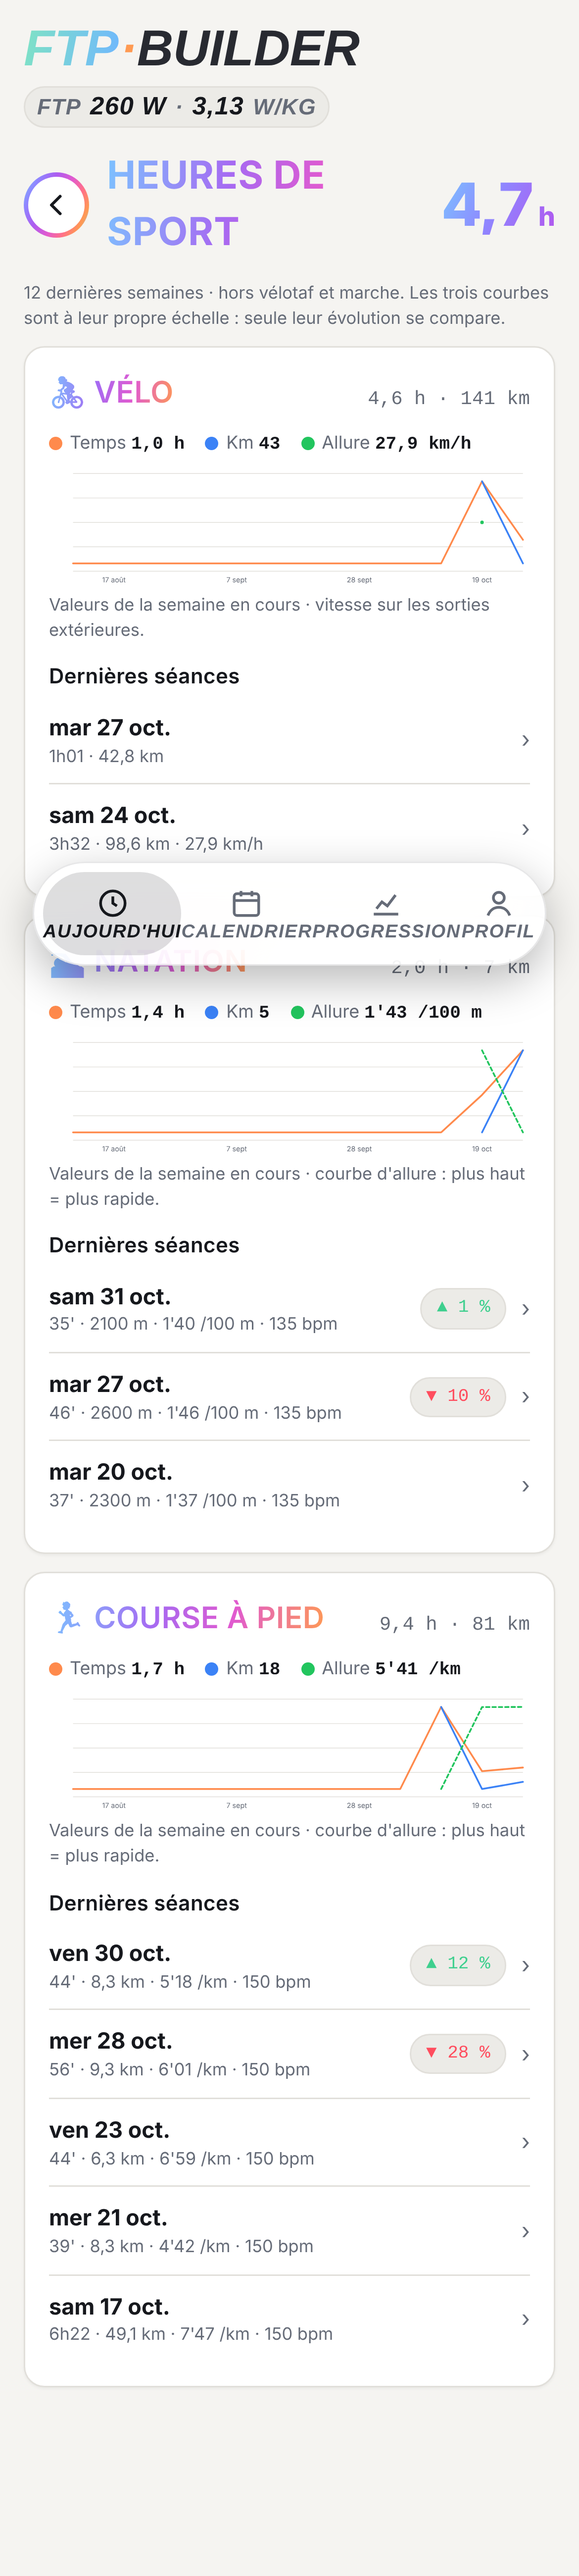
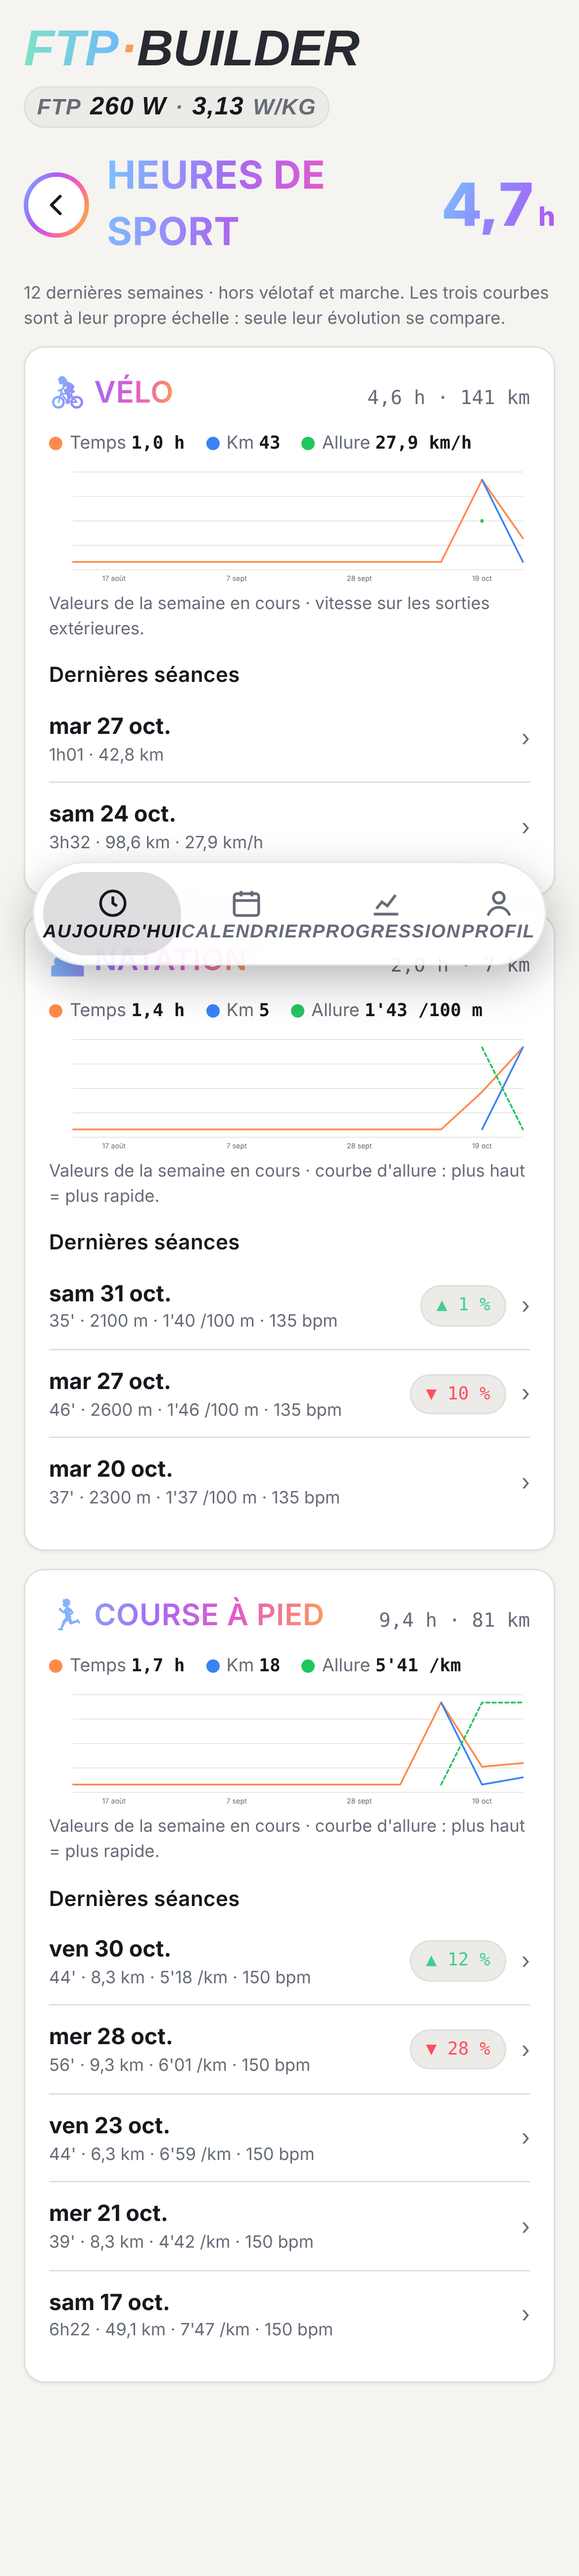
Nat du jour visible + séances perdues entre appareils (v0.55.1) (#38)
* Programme : séances du jour tous sports + nat/course dans Dernières séances (v0.55.1)

La carte « Aujourd'hui » (nat / course faites cochées) n'était plus affichée nulle part ;
« Dernières séances » ne listait que le vélo.

Claude-Session: https://claude.ai/code/session_01Anqdu9G4sX22cpaSyqJyj9

* Synchro : un onglet resté ouvert n'efface plus les séances importées par un autre appareil

- au retour sur l'app, on relit le compte avant tout import ;
- avant chaque envoi, si le compte a été écrit ailleurs depuis, ses séances sont fusionnées ;
- test sync-guards F (PC + téléphone).

Claude-Session: https://claude.ai/code/session_01Anqdu9G4sX22cpaSyqJyj9

---------

diff --git a/js/17-cloud.js b/js/17-cloud.js
@@ -144,6 +144,7 @@ const Cloud = (() => {
   //  · l'état local n'a jamais été relié à ce compte, qui contient déjà des données (questionnaire refait sur un nouveau
   //    téléphone puis connexion) : on prend le compte si le téléphone est vierge, sinon on demande.
   let hold = false;   // envois suspendus tant qu'un choix est en attente
+  let seenAt = 0;     // updated_at du compte au dernier pull / push : un envoi ne doit pas écraser un état plus récent qu'il n'a pas vu
   let pulled = false; // le compte a été lu au moins une fois : aucun envoi avant (on n'écrase pas ce qu'on n'a pas regardé)
   const linked = () => S.syncedUser === user()?.id;
   function link(){ if (S.syncedUser === user().id && !S.syncLegacy) return; S.syncedUser = user().id; delete S.syncLegacy; save({ remote:true }); }
@@ -162,7 +163,7 @@ const Cloud = (() => {
   async function doPull(){
     const { data, error } = await sb.from('user_state').select('data, updated_at').maybeSingle();
     if (error) { console.warn(error); return; }
-    pulled = true;
+    pulled = true; if (data?.updated_at) seenAt = Math.max(seenAt, Date.parse(data.updated_at) || 0);
     if (APP_STALE) return stale();
     const m = data?.data ? migrateState(data.data) : null;
     if (!m) { if (S.profile) await push(); return; }
@@ -184,8 +185,31 @@ const Cloud = (() => {
   async function push(){
     if (!sb || !user() || !S.profile || APP_STALE || hold) return;
     if (!pulled) return pull(); // premier envoi de la session : on lit d'abord le compte, pull() décide
-    const uid = user().id, { error } = await sb.from('user_state').upsert({ user_id: uid, data: { ...S, syncedUser: uid, syncLegacy: undefined }, updated_at: new Date().toISOString() });
+    const cur = await sb.from('user_state').select('updated_at').maybeSingle();
+    if (!cur.error && cur.data && (Date.parse(cur.data.updated_at) || 0) > seenAt) { // un autre appareil a écrit depuis notre dernière lecture
+      const full = await sb.from('user_state').select('data, updated_at').maybeSingle();
+      const m = full.data?.data ? migrateState(full.data.data) : null;
+      if (m?.newer) return stale();
+      if (m && mergeRemote(m.state)) { save({ remote:true }); try { render(); } catch(e){} }
+      seenAt = Math.max(seenAt, Date.parse(full.data?.updated_at) || 0);
+    }
+    const now = new Date().toISOString();
+    const uid = user().id, { error } = await sb.from('user_state').upsert({ user_id: uid, data: { ...S, syncedUser: uid, syncLegacy: undefined }, updated_at: now });
+    if (!error) seenAt = Math.max(seenAt, Date.parse(now));
     if (error) { console.warn('push', error); if (++pushFails === 3) Errors.report(new Error('Synchro du compte en échec : ' + (error.message || error.code || '')), 'push'); } else { pushFails = 0; link(); }
+  }
+  // séances enregistrées sur un autre appareil et absentes d'ici (fusion : on n'en perd aucune)
+  function mergeRemote(remote){
+    let n = 0;
+    const same = (x, a) => x.id === a.id || (a.stravaId && x.stravaId === a.stravaId) || (a.extId && x.extId === a.extId) || (a.healthStart && x.healthStart === a.healthStart) || (a.startTs && x.startTs && x.source !== 'health' && a.source !== 'health' && Math.abs(x.startTs - a.startTs) < 120);
+    for (const a of remote.activities || []) {
+      if (S.activities.some(x => same(x, a))) continue;
+      S.activities.push(a); n++;
+      const pl = a.planId && S.plan.find(s => s.id === a.planId);
+      if (pl && pl.status === 'planned') { pl.status = 'done'; pl.activityId = a.id; }
+    }
+    if (n) S.activities.sort((x, y) => x.date.localeCompare(y.date));
+    return n;
   }
   function schedulePush(){ if (!user()) return; clearTimeout(pushTimer); pushTimer = setTimeout(push, 1500); }
 
@@ -414,6 +438,6 @@ const Cloud = (() => {
     else if (a.dataset.strava === 'off') disconnectStrava();
     else if (a.dataset.feelact) feelDlg(a.dataset.feelact);
   });
-  document.addEventListener('visibilitychange', () => { if (document.visibilityState === 'visible' && user()) { importInbox().then(n => { if (n) { render(); toast(`${n} sortie${n>1?'s':''} Strava importée${n>1?'s':''}`); } }); autoIcu(); } });
+  document.addEventListener('visibilitychange', () => { if (document.visibilityState === 'visible' && user()) pull().then(() => { render(); return importInbox(); }).then(n => { if (n) { render(); toast(`${n} sortie${n>1?'s':''} Strava importée${n>1?'s':''}`); } return autoIcu(); }); });
   return { init, signIn, signUp, signInGoogle, get authKnown(){ return authKnown; }, schedulePush, accountHTML, importInbox, importExt, pushPlan, autoIcu, icuText, connectIcuOAuth, connectStrava, authDlg, get ready(){ return ready; }, get icu(){ return icu; }, get strava(){ return strava; }, get user(){ return user(); }, get sb(){ return sb; } };
 })();

diff --git a/js/06-render.js b/js/06-render.js
@@ -124,6 +124,7 @@ function todayHTML(){
   if (TODAY_PANE === 'forme') { const lc = loadCardHTML(); h += (Health.todayCard() || (lc ? '' : ll ? `<div class="card"><h2>Forme</h2><div class="grid3"><div class="kpi"><div class="v num">${Math.round(ll.ctl)}</div><div class="l">Fitness (CTL)</div></div><div class="kpi"><div class="v num">${Math.round(ll.atl)}</div><div class="l">Fatigue (ATL)</div></div><div class="kpi"><div class="v num">${Math.round(ll.tsb)}</div><div class="l">Forme (TSB)</div></div></div><p class="tiny muted" style="margin:10px 0 0">Connecte Apple Santé (Profil › Réglages) pour l'indice de forme du jour.</p></div>` : `<div class="card"><h2>Forme</h2><p class="muted small" style="margin:0">Pas encore de données : importe des séances ou connecte Apple Santé (Profil › Réglages).</p></div>`)) + lc + Health.progressCards(); }
   if (TODAY_PANE === 'prog') {
   h += phaseHTML(true);
+  h += todayCardHTML(); // séances du jour, tous sports (nat / course faites remontées d'Intervals / Apple Santé)
   h += arcsHTML(); let pre = '';
   for (const n of notes) pre += `<div class="note ${n.cls}">${esc(n.t)}${n.action?` <button class="btn sm" data-coach="${notes.indexOf(n)}" style="margin-left:6px">${esc(n.action.label)}</button>`:''}${n.plan?` <button class="btn sm" data-open="${n.plan}" style="margin-left:6px">Ouvrir</button>`:''}</div>`;
   window._coach = notes;
@@ -153,8 +154,12 @@ function todayHTML(){
   h += progCard + pre;
   h += `<div class="card"><h2>Ajouter une activité</h2><p class="muted small" style="margin-top:0">Fichier .fit (Garmin Connect : Exporter l'original · Strava : Exporter l'original) ou saisie manuelle.</p>
     <div class="row"><button class="btn primary" data-log="">Importer / saisir une séance</button></div></div>`;
-  const recent = S.activities.slice().sort((a,b)=>b.date.localeCompare(a.date)).slice(0,3);
-  if (recent.length) h += `<div class="card"><h2>Dernières séances</h2>${recent.map(actRow).join('')}</div>`;
+  // vélo (S.activities) + nat / course (Intervals.icu / Apple Santé), du plus récent au plus ancien
+  const tsA = a => a.startTs || Date.parse(a.date + 'T12:00:00') / 1000;
+  const recent = [...S.activities.map(a => ({ ts: tsA(a), d: a.date, html: () => actRow(a) })),
+    ...Health.extraWorkouts().filter(e => (e.sport === 'swim' || e.sport === 'run') && (+e.w.duration_min || 0) >= 5).map(e => ({ ts: Date.parse(e.w.start_at) / 1000, d: e.date, html: () => wRow(e) }))]
+    .sort((x, y) => y.d.localeCompare(x.d) || y.ts - x.ts).slice(0, 3);
+  if (recent.length) h += `<div class="card"><h2>Dernières séances</h2>${recent.map(x => x.html()).join('')}</div>`;
   }
   return h + `</div>`;
 }
@@ -605,6 +610,12 @@ function sportSessionDlg(ref){
 }
 document.addEventListener('click', e => { const r = e.target.closest('[data-ssess]'); if (r) sportSessionDlg(r.dataset.ssess); });
 document.addEventListener('keydown', e => { if (e.key !== 'Enter' && e.key !== ' ') return; const r = e.target.closest?.('[data-ssess]'); if (r) { e.preventDefault(); sportSessionDlg(r.dataset.ssess); } });
+// ligne « Dernières séances » pour une nat / course importée (ouvre la fiche du jour)
+function wRow(e){
+  const w = e.w, km = +w.distance_km || 0, t = new Date(w.start_at);
+  const dist = km ? (e.sport === 'swim' ? ` · ${Math.round(km * 1000)} m` : ` · ${km.toFixed(1).replace('.', ',')} km`) : '';
+  return `<div class="hist" data-dayitem="${esc('w:' + w.start_at)}" data-day="${e.date}" style="cursor:pointer"><div style="flex:1;min-width:0"><b>${e.sport === 'swim' ? '🏊' : '🏃'} ${esc(w.type || 'Séance')}</b><div class="tiny muted">${fmtDate(e.date)} · ${t.getHours()}h${pad(t.getMinutes())} · ${fmtDur((+w.duration_min || 0) * 60)}${dist}${w.avg_hr ? ` · ${Math.round(w.avg_hr)} bpm` : ''}${e.tss ? ` · TSS ~${e.tss}` : ''}</div></div></div>`;
+}
 function actRow(a){
   const pl = a.planId ? S.plan.find(s=>s.id===a.planId) : null;
   const ev = pl ? sessionEval(a, pl) : null;

diff --git a/index.html b/index.html
@@ -806,35 +806,35 @@ html.at-open,html.at-open body{overflow:hidden}
 <input type="file" id="fileIn" class="hidden">
 
 <script src="https://cdn.jsdelivr.net/npm/@supabase/supabase-js@2.45.4/dist/umd/supabase.js"></script>
-<script>"use strict"; const APP_VERSION = '0.55.0';</script>
-<script src="js/00-schema.js?v=0.55.0"></script>
-<script src="js/01-core.js?v=0.55.0"></script>
-<script src="js/02-plan.js?v=0.55.0"></script>
-<script src="js/03-fit-metrics.js?v=0.55.0"></script>
-<script src="js/04-fit-write-coach.js?v=0.55.0"></script>
-<script src="js/05-charts.js?v=0.55.0"></script>
-<script src="js/06-render.js?v=0.55.0"></script>
-<script src="js/07-health-import.js?v=0.55.0"></script>
-<script src="js/08-explain-challenges.js?v=0.55.0"></script>
-<script src="js/09-mobility.js?v=0.55.0"></script>
-<script src="js/10-test-absences.js?v=0.55.0"></script>
-<script src="js/11-session-chart.js?v=0.55.0"></script>
-<script src="js/12-tracks.js?v=0.55.0"></script>
-<script src="js/13-climbs.js?v=0.55.0"></script>
-<script src="js/14-adjust.js?v=0.55.0"></script>
-<script src="js/15-dialogs.js?v=0.55.0"></script>
-<script src="js/16-clicks.js?v=0.55.0"></script>
-<script src="js/17-cloud.js?v=0.55.0"></script>
-<script src="js/18-social.js?v=0.55.0"></script>
-<script src="js/18-survey.js?v=0.55.0"></script>
-<script src="js/19-onboarding.js?v=0.55.0"></script>
-<script src="js/20-health-shortcut.js?v=0.55.0"></script>
-<script src="js/21-library.js?v=0.55.0"></script>
-<script src="js/22-bike3d.js?v=0.55.0"></script>
-<script src="js/22-swim3d.js?v=0.55.0"></script>
-<script src="js/23-garage-catalog.js?v=0.55.0"></script>
-<script src="js/23-garage.js?v=0.55.0"></script>
-<script src="js/23-atelier.js?v=0.55.0"></script>
-<script src="js/24-boot.js?v=0.55.0"></script>
+<script>"use strict"; const APP_VERSION = '0.55.1';</script>
+<script src="js/00-schema.js?v=0.55.1"></script>
+<script src="js/01-core.js?v=0.55.1"></script>
+<script src="js/02-plan.js?v=0.55.1"></script>
+<script src="js/03-fit-metrics.js?v=0.55.1"></script>
+<script src="js/04-fit-write-coach.js?v=0.55.1"></script>
+<script src="js/05-charts.js?v=0.55.1"></script>
+<script src="js/06-render.js?v=0.55.1"></script>
+<script src="js/07-health-import.js?v=0.55.1"></script>
+<script src="js/08-explain-challenges.js?v=0.55.1"></script>
+<script src="js/09-mobility.js?v=0.55.1"></script>
+<script src="js/10-test-absences.js?v=0.55.1"></script>
+<script src="js/11-session-chart.js?v=0.55.1"></script>
+<script src="js/12-tracks.js?v=0.55.1"></script>
+<script src="js/13-climbs.js?v=0.55.1"></script>
+<script src="js/14-adjust.js?v=0.55.1"></script>
+<script src="js/15-dialogs.js?v=0.55.1"></script>
+<script src="js/16-clicks.js?v=0.55.1"></script>
+<script src="js/17-cloud.js?v=0.55.1"></script>
+<script src="js/18-social.js?v=0.55.1"></script>
+<script src="js/18-survey.js?v=0.55.1"></script>
+<script src="js/19-onboarding.js?v=0.55.1"></script>
+<script src="js/20-health-shortcut.js?v=0.55.1"></script>
+<script src="js/21-library.js?v=0.55.1"></script>
+<script src="js/22-bike3d.js?v=0.55.1"></script>
+<script src="js/22-swim3d.js?v=0.55.1"></script>
+<script src="js/23-garage-catalog.js?v=0.55.1"></script>
+<script src="js/23-garage.js?v=0.55.1"></script>
+<script src="js/23-atelier.js?v=0.55.1"></script>
+<script src="js/24-boot.js?v=0.55.1"></script>
 </body>
 </html>
